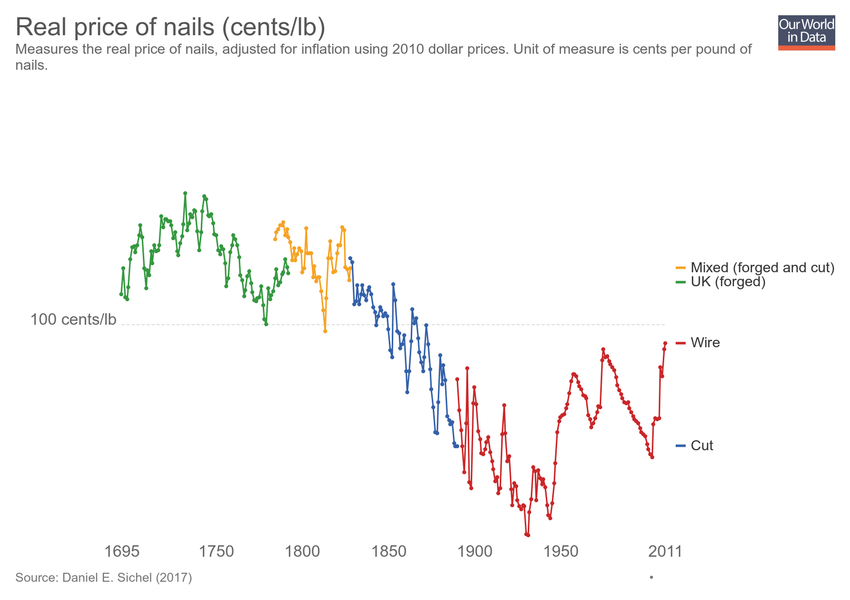
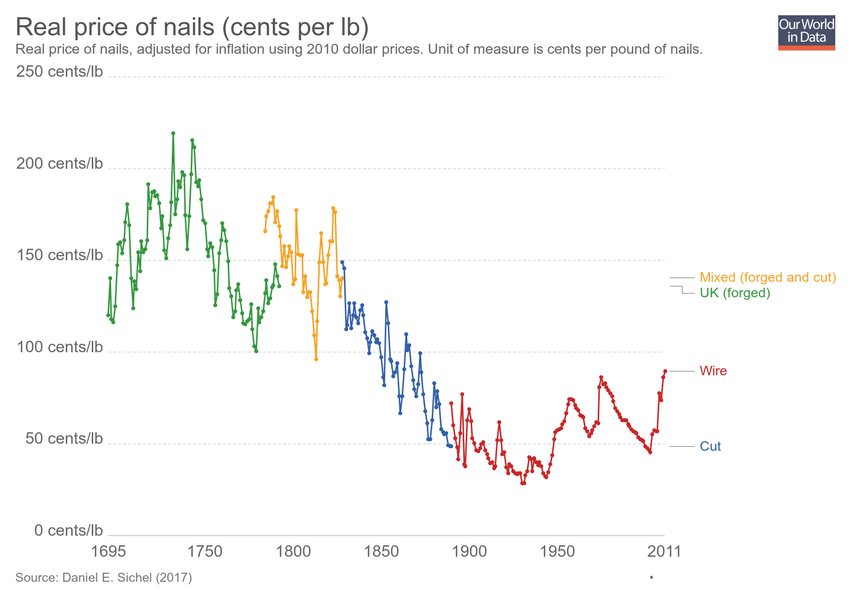
Updating chart real-price-of-nails-centslb

diff --git a/grapher/hiv-expenditure.html b/grapher/hiv-expenditure.html
@@ -1,4 +1,4 @@
-<!doctype html><html><head><meta name="viewport" content="width=device-width, initial-scale=1" /><title>HIV expenditure on prevention and treatment - Our World in Data</title><meta name="description" content="Total expenditure on HIV/AIDS prevention and treatment, measured in US$." /><link rel="canonical" href="https://ourworldindata.org/grapher/hiv-expenditure" /><meta property="fb:app_id" content="1149943818390250" /><meta property="og:url" content="https://ourworldindata.org/grapher/hiv-expenditure" /><meta property="og:title" content="HIV expenditure on prevention and treatment" /><meta property="og:description" content="Total expenditure on HIV/AIDS prevention and treatment, measured in US$." /><meta property="og:image" content="https://ourworldindata.org/grapher/exports/hiv-expenditure.png?v=1" /><meta property="og:image:width" content="850" /><meta property="og:image:height" content="600" /><meta property="og:site_name" content="Our World in Data" /><meta name="twitter:card" content="summary_large_image" /><meta name="twitter:site" content="@OurWorldInData" /><meta name="twitter:creator" content="@OurWorldInData" /><meta name="twitter:title" content="HIV expenditure on prevention and treatment" /><meta name="twitter:description" content="Total expenditure on HIV/AIDS prevention and treatment, measured in US$." /><meta name="twitter:image" content="https://ourworldindata.org/grapher/exports/hiv-expenditure.png?v=1" /><style>
+<!doctype html><html><head><meta name="viewport" content="width=device-width, initial-scale=1" /><title>HIV expenditure - Our World in Data</title><meta name="description" content="Country-reported HIV expenditure, measured in current US$ per year. The year of reported expenditure varies by country; this information can be found by hovering over a given country." /><link rel="canonical" href="https://ourworldindata.org/grapher/hiv-expenditure" /><meta property="fb:app_id" content="1149943818390250" /><meta property="og:url" content="https://ourworldindata.org/grapher/hiv-expenditure" /><meta property="og:title" content="HIV expenditure" /><meta property="og:description" content="Country-reported HIV expenditure, measured in current US$ per year. The year of reported expenditure varies by country; this information can be found by hovering over a given country." /><meta property="og:image" content="https://ourworldindata.org/grapher/exports/hiv-expenditure.png?v=1" /><meta property="og:image:width" content="850" /><meta property="og:image:height" content="600" /><meta property="og:site_name" content="Our World in Data" /><meta name="twitter:card" content="summary_large_image" /><meta name="twitter:site" content="@OurWorldInData" /><meta name="twitter:creator" content="@OurWorldInData" /><meta name="twitter:title" content="HIV expenditure" /><meta name="twitter:description" content="Country-reported HIV expenditure, measured in current US$ per year. The year of reported expenditure varies by country; this information can be found by hovering over a given country." /><meta name="twitter:image" content="https://ourworldindata.org/grapher/exports/hiv-expenditure.png?v=1" /><style>
         html, body {
             height: 100%;
             margin: 0;
@@ -20,19 +20,8 @@
         }
     </style><noscript><style>
                     figure { display: none !important; }
-                </style></noscript><link rel="stylesheet" href="https://ourworldindata.org/grapher/assets/commons.bundle.ac09ff8f098f0c7be836.css" /><link rel="preload" href="/grapher/data/variables/96328.json?v=1" as="fetch" crossorigin /></head><body class="singleChart"><figure data-grapher-src="/grapher/hiv-expenditure"></figure><noscript id="fallback"><img src="/grapher/exports/hiv-expenditure.svg" /><p>Interactive visualization requires JavaScript</p></noscript><script src="https://cdn.polyfill.io/v2/polyfill.min.js?features=es6,fetch"></script><script src="https://ourworldindata.org/grapher/assets/commons.bundle.ac09ff8f098f0c7be836.js"></script><script src="https://ourworldindata.org/grapher/assets/charts.bundle.dcf65b68eddaba4c6a58.js"></script><script>
-        var jsonConfig = {"map":{"projection":"World","targetYear":2015,"variableId":96328,"timeTolerance":3,"baseColorScheme":"YlGnBu","isManualBuckets":true,"colorSchemeLabels":[],"colorSchemeValues":[50000000,100000000,150000000,200000000,250000000,300000000,350000000,400000000],"defaultProjection":"World","colorSchemeMinValue":0,"customNumericColors":[null,null],"customCategoryColors":{},"customCategoryLabels":{},"customHiddenCategories":{}},"tab":"map","slug":"hiv-expenditure","type":"LineChart","title":"HIV expenditure on prevention and treatment","xAxis":{"scaleType":"linear"},"yAxis":{"min":0,"scaleType":"linear"},"version":1,"subtitle":"Total expenditure on HIV/AIDS prevention and treatment, measured in US$.","hasMapTab":true,"stackMode":"absolute","dimensions":[{"display":{"shortUnit":"$"},"property":"y","variableId":96328}],"hasChartTab":true,"isPublished":true,"selectedData":[{"index":0,"entityId":123},{"index":0,"entityId":237},{"index":0,"entityId":95}],"addCountryMode":"add-country","id":2488};
-        var figure = document.getElementsByTagName("figure")[0];
-        try {
-            window.App = {};
-            window.Global = { rootUrl: 'https://ourworldindata.org/grapher' };
-            ChartView.bootstrap({ jsonConfig: jsonConfig, containerNode: figure })
-        } catch (err) {
-            figure.innerHTML = "<img src=\"/grapher/exports/hiv-expenditure.svg\"/><p>Unable to load interactive visualization</p>";
-            figure.setAttribute("id", "fallback");
-            throw err;
-        }
-    </script></body></html>d":219},{"index":0,"entityId":23},{"index":0,"entityId":25},{"index":0,"entityId":26},{"index":0,"entityId":28},{"index":0,"entityId":29},{"index":0,"entityId":30},{"index":0,"entityId":4},{"index":0,"entityId":31},{"index":0,"entityId":32},{"index":0,"entityId":34},{"index":0,"entityId":35},{"index":0,"entityId":36},{"index":0,"entityId":37},{"index":0,"entityId":39},{"index":0,"entityId":40},{"index":0,"entityId":41},{"index":0,"entityId":18581},{"index":0,"entityId":42},{"index":0,"entityId":43},{"index":0,"entityId":174},{"index":0,"entityId":173},{"index":0,"entityId":172},{"index":0,"entityId":171},{"index":0,"entityId":170},{"index":0,"entityId":169},{"index":0,"entityId":168},{"index":0,"entityId":166},{"index":0,"entityId":143}],"addCountryMode":"add-country","hideTitleAnnotation":true,"id":2293};
+                </style></noscript><link rel="stylesheet" href="https://ourworldindata.org/grapher/assets/commons.bundle.ac09ff8f098f0c7be836.css" /><link rel="preload" href="/grapher/data/variables/85855.json?v=1" as="fetch" crossorigin /></head><body class="singleChart"><figure data-grapher-src="/grapher/hiv-expenditure"></figure><noscript id="fallback"><img src="/grapher/exports/hiv-expenditure.svg" /><p>Interactive visualization requires JavaScript</p></noscript><script src="https://cdn.polyfill.io/v2/polyfill.min.js?features=es6,fetch"></script><script src="https://ourworldindata.org/grapher/assets/commons.bundle.ac09ff8f098f0c7be836.js"></script><script src="https://ourworldindata.org/grapher/assets/charts.bundle.dcf65b68eddaba4c6a58.js"></script><script>
+        var jsonConfig = {"map":{"projection":"World","targetYear":2016,"variableId":85855,"equalSizeBins":true,"timeTolerance":5,"baseColorScheme":"Purples","isManualBuckets":true,"colorSchemeLabels":[],"colorSchemeValues":[50000000,100000000,200000000,300000000,400000000,500000000,750000000,1000000000],"defaultProjection":"World","colorSchemeMinValue":0,"customNumericColors":[null,null],"customCategoryColors":{},"customCategoryLabels":{},"customHiddenCategories":{}},"tab":"map","slug":"hiv-expenditure","type":"LineChart","title":"HIV expenditure","xAxis":{"scaleType":"linear"},"yAxis":{"min":0,"scaleType":"linear"},"version":1,"subtitle":"Country-reported HIV expenditure, measured in current US$ per year. The year of reported expenditure varies by country; this information can be found by hovering over a given country.","hasMapTab":true,"stackMode":"absolute","dimensions":[{"display":{},"property":"y","variableId":85855}],"isAutoSlug":true,"sourceDesc":"UNAIDS","hasChartTab":false,"isPublished":true,"selectedData":[{"index":0,"entityId":84},{"index":0,"entityId":233},{"index":0,"entityId":229},{"index":0,"entityId":15},{"index":0,"entityId":16},{"index":0,"entityId":17},{"index":0,"entityId":19},{"index":0,"entityId":20},{"index":0,"entityId":21},{"index":0,"entityId":22},{"index":0,"entityId":219},{"index":0,"entityId":23},{"index":0,"entityId":25},{"index":0,"entityId":26},{"index":0,"entityId":28},{"index":0,"entityId":29},{"index":0,"entityId":30},{"index":0,"entityId":4},{"index":0,"entityId":31},{"index":0,"entityId":32},{"index":0,"entityId":34},{"index":0,"entityId":35},{"index":0,"entityId":36},{"index":0,"entityId":37},{"index":0,"entityId":39},{"index":0,"entityId":40},{"index":0,"entityId":41},{"index":0,"entityId":18581},{"index":0,"entityId":42},{"index":0,"entityId":43},{"index":0,"entityId":174},{"index":0,"entityId":173},{"index":0,"entityId":172},{"index":0,"entityId":171},{"index":0,"entityId":170},{"index":0,"entityId":169},{"index":0,"entityId":168},{"index":0,"entityId":166},{"index":0,"entityId":143}],"addCountryMode":"add-country","hideTitleAnnotation":true,"id":2293};
         var figure = document.getElementsByTagName("figure")[0];
         try {
             window.App = {};

diff --git a/grapher/real-price-of-nails-centslb.html b/grapher/real-price-of-nails-centslb.html
@@ -1,4 +1,4 @@
-<!doctype html><html><head><meta name="viewport" content="width=device-width, initial-scale=1" /><title>Real price of nails (cents/lb) - Our World in Data</title><meta name="description" content="Measures the real price of nails, adjusted for inflation using 2010 dollar prices. Unit of measure is cents per pound of nails." /><link rel="canonical" href="https://ourworldindata.org/grapher/real-price-of-nails-centslb" /><meta property="fb:app_id" content="1149943818390250" /><meta property="og:url" content="https://ourworldindata.org/grapher/real-price-of-nails-centslb" /><meta property="og:title" content="Real price of nails (cents/lb)" /><meta property="og:description" content="Measures the real price of nails, adjusted for inflation using 2010 dollar prices. Unit of measure is cents per pound of nails." /><meta property="og:image" content="https://ourworldindata.org/grapher/exports/real-price-of-nails-centslb.png?v=6" /><meta property="og:image:width" content="850" /><meta property="og:image:height" content="600" /><meta property="og:site_name" content="Our World in Data" /><meta name="twitter:card" content="summary_large_image" /><meta name="twitter:site" content="@OurWorldInData" /><meta name="twitter:creator" content="@OurWorldInData" /><meta name="twitter:title" content="Real price of nails (cents/lb)" /><meta name="twitter:description" content="Measures the real price of nails, adjusted for inflation using 2010 dollar prices. Unit of measure is cents per pound of nails." /><meta name="twitter:image" content="https://ourworldindata.org/grapher/exports/real-price-of-nails-centslb.png?v=6" /><style>
+<!doctype html><html><head><meta name="viewport" content="width=device-width, initial-scale=1" /><title>Real price of nails (cents per lb) - Our World in Data</title><meta name="description" content="Real price of nails, adjusted for inflation using 2010 dollar prices. Unit of measure is cents per pound of nails." /><link rel="canonical" href="https://ourworldindata.org/grapher/real-price-of-nails-centslb" /><meta property="fb:app_id" content="1149943818390250" /><meta property="og:url" content="https://ourworldindata.org/grapher/real-price-of-nails-centslb" /><meta property="og:title" content="Real price of nails (cents per lb)" /><meta property="og:description" content="Real price of nails, adjusted for inflation using 2010 dollar prices. Unit of measure is cents per pound of nails." /><meta property="og:image" content="https://ourworldindata.org/grapher/exports/real-price-of-nails-centslb.png?v=7" /><meta property="og:image:width" content="850" /><meta property="og:image:height" content="600" /><meta property="og:site_name" content="Our World in Data" /><meta name="twitter:card" content="summary_large_image" /><meta name="twitter:site" content="@OurWorldInData" /><meta name="twitter:creator" content="@OurWorldInData" /><meta name="twitter:title" content="Real price of nails (cents per lb)" /><meta name="twitter:description" content="Real price of nails, adjusted for inflation using 2010 dollar prices. Unit of measure is cents per pound of nails." /><meta name="twitter:image" content="https://ourworldindata.org/grapher/exports/real-price-of-nails-centslb.png?v=7" /><style>
         html, body {
             height: 100%;
             margin: 0;
@@ -20,8 +20,8 @@
         }
     </style><noscript><style>
                     figure { display: none !important; }
-                </style></noscript><link rel="stylesheet" href="https://ourworldindata.org/grapher/assets/commons.bundle.ac09ff8f098f0c7be836.css" /><link rel="preload" href="/grapher/data/variables/85642+85643+85644+85645.json?v=6" as="fetch" crossorigin /></head><body class="singleChart"><figure data-grapher-src="/grapher/real-price-of-nails-centslb"></figure><noscript id="fallback"><img src="/grapher/exports/real-price-of-nails-centslb.svg" /><p>Interactive visualization requires JavaScript</p></noscript><script src="https://cdn.polyfill.io/v2/polyfill.min.js?features=es6,fetch"></script><script src="https://ourworldindata.org/grapher/assets/commons.bundle.ac09ff8f098f0c7be836.js"></script><script src="https://ourworldindata.org/grapher/assets/charts.bundle.dcf65b68eddaba4c6a58.js"></script><script>
-        var jsonConfig = {"id":2231,"map":{"projection":"World","colorSchemeLabels":[],"colorSchemeValues":[],"defaultProjection":"World","colorSchemeMinValue":0,"customNumericColors":[],"customCategoryColors":{},"customCategoryLabels":{},"customHiddenCategories":{}},"tab":"chart","slug":"real-price-of-nails-centslb","type":"LineChart","title":"Real price of nails (cents/lb)","xAxis":{"scaleType":"linear"},"yAxis":{"max":400,"min":0,"scaleType":"log","canChangeScaleType":true},"version":6,"subtitle":"Measures the real price of nails, adjusted for inflation using 2010 dollar prices. Unit of measure is cents per pound of nails.","hasMapTab":false,"stackMode":"absolute","dimensions":[{"display":{"name":"UK (forged)","shortUnit":"cents/lb"},"property":"y","variableId":85642},{"display":{"name":"Mixed (forged and cut)"},"property":"y","variableId":85643},{"display":{"name":"Cut"},"property":"y","variableId":85644},{"display":{"name":"Wire"},"property":"y","variableId":85645}],"hasChartTab":true,"isPublished":true,"selectedData":[{"index":0,"entityId":355},{"index":1,"entityId":355},{"index":2,"entityId":355},{"index":3,"entityId":355}],"addCountryMode":"change-country","hideTitleAnnotation":true};
+                </style></noscript><link rel="stylesheet" href="https://ourworldindata.org/grapher/assets/commons.bundle.ac09ff8f098f0c7be836.css" /><link rel="preload" href="/grapher/data/variables/85642+85643+85644+85645.json?v=7" as="fetch" crossorigin /></head><body class="singleChart"><figure data-grapher-src="/grapher/real-price-of-nails-centslb"></figure><noscript id="fallback"><img src="/grapher/exports/real-price-of-nails-centslb.svg" /><p>Interactive visualization requires JavaScript</p></noscript><script src="https://cdn.polyfill.io/v2/polyfill.min.js?features=es6,fetch"></script><script src="https://ourworldindata.org/grapher/assets/commons.bundle.ac09ff8f098f0c7be836.js"></script><script src="https://ourworldindata.org/grapher/assets/charts.bundle.dcf65b68eddaba4c6a58.js"></script><script>
+        var jsonConfig = {"id":2231,"map":{"projection":"World","colorSchemeLabels":[],"colorSchemeValues":[],"colorSchemeMinValue":0,"customNumericColors":[],"customCategoryColors":{},"customCategoryLabels":{},"customHiddenCategories":{}},"tab":"chart","slug":"real-price-of-nails-centslb","type":"LineChart","title":"Real price of nails (cents per lb)","xAxis":{"scaleType":"linear"},"yAxis":{"max":250,"min":0,"scaleType":"linear"},"version":7,"subtitle":"Real price of nails, adjusted for inflation using 2010 dollar prices. Unit of measure is cents per pound of nails.","hasMapTab":false,"stackMode":"absolute","dimensions":[{"display":{"name":"UK (forged)","shortUnit":"cents/lb"},"property":"y","variableId":85642},{"display":{"name":"Mixed (forged and cut)"},"property":"y","variableId":85643},{"display":{"name":"Cut"},"property":"y","variableId":85644},{"display":{"name":"Wire"},"property":"y","variableId":85645}],"hasChartTab":true,"isPublished":true,"selectedData":[{"index":0,"entityId":355},{"index":1,"entityId":355},{"index":2,"entityId":355},{"index":3,"entityId":355}],"addCountryMode":"change-country","hideTitleAnnotation":true};
         var figure = document.getElementsByTagName("figure")[0];
         try {
             window.App = {};

diff --git a/grapher/real-price-of-nails-cents.html b/grapher/real-price-of-nails-cents.html
@@ -1,0 +1,35 @@
+<!doctype html><html><head><meta name="viewport" content="width=device-width, initial-scale=1" /><title>Real price of nails (cents per nail) - Our World in Data</title><meta name="description" content="Real price of nails, adjusted for inflation using 2010 dollar prices. Unit of measure is cents per nail." /><link rel="canonical" href="https://ourworldindata.org/grapher/real-price-of-nails-cents" /><meta property="fb:app_id" content="1149943818390250" /><meta property="og:url" content="https://ourworldindata.org/grapher/real-price-of-nails-cents" /><meta property="og:title" content="Real price of nails (cents per nail)" /><meta property="og:description" content="Real price of nails, adjusted for inflation using 2010 dollar prices. Unit of measure is cents per nail." /><meta property="og:image" content="https://ourworldindata.org/grapher/exports/real-price-of-nails-cents.png?v=5" /><meta property="og:image:width" content="850" /><meta property="og:image:height" content="600" /><meta property="og:site_name" content="Our World in Data" /><meta name="twitter:card" content="summary_large_image" /><meta name="twitter:site" content="@OurWorldInData" /><meta name="twitter:creator" content="@OurWorldInData" /><meta name="twitter:title" content="Real price of nails (cents per nail)" /><meta name="twitter:description" content="Real price of nails, adjusted for inflation using 2010 dollar prices. Unit of measure is cents per nail." /><meta name="twitter:image" content="https://ourworldindata.org/grapher/exports/real-price-of-nails-cents.png?v=5" /><style>
+        html, body {
+            height: 100%;
+            margin: 0;
+        }
+
+        figure[data-grapher-src], #fallback {
+            display: flex;
+            align-items: center;
+            justify-content: center;
+            flex-direction: column;
+            margin: 0;
+            width: 100%;
+            height: 100%;
+        }
+
+        #fallback > img {
+            max-width: 100%;
+            border: 1px solid #ccc;
+        }
+    </style><noscript><style>
+                    figure { display: none !important; }
+                </style></noscript><link rel="stylesheet" href="https://ourworldindata.org/grapher/assets/commons.bundle.ac09ff8f098f0c7be836.css" /><link rel="preload" href="/grapher/data/variables/85647+85648+85649+85650.json?v=5" as="fetch" crossorigin /></head><body class="singleChart"><figure data-grapher-src="/grapher/real-price-of-nails-cents"></figure><noscript id="fallback"><img src="/grapher/exports/real-price-of-nails-cents.svg" /><p>Interactive visualization requires JavaScript</p></noscript><script src="https://cdn.polyfill.io/v2/polyfill.min.js?features=es6,fetch"></script><script src="https://ourworldindata.org/grapher/assets/commons.bundle.ac09ff8f098f0c7be836.js"></script><script src="https://ourworldindata.org/grapher/assets/charts.bundle.dcf65b68eddaba4c6a58.js"></script><script>
+        var jsonConfig = {"id":2232,"map":{"projection":"World","colorSchemeLabels":[],"colorSchemeValues":[],"colorSchemeMinValue":0,"customNumericColors":[],"customCategoryColors":{},"customCategoryLabels":{},"customHiddenCategories":{}},"tab":"chart","slug":"real-price-of-nails-cents","type":"LineChart","title":"Real price of nails (cents per nail)","xAxis":{"scaleType":"linear"},"yAxis":{"max":3,"min":0,"scaleType":"linear"},"version":5,"subtitle":"Real price of nails, adjusted for inflation using 2010 dollar prices. Unit of measure is cents per nail.","hasMapTab":false,"stackMode":"absolute","dimensions":[{"display":{"name":"UK (forged)","shortUnit":"cents/nail"},"property":"y","variableId":85647},{"display":{"name":"Mixed (forged and cut)"},"property":"y","variableId":85648},{"display":{"name":"Cut"},"property":"y","variableId":85649},{"display":{"name":"Wire"},"property":"y","variableId":85650}],"hasChartTab":true,"isPublished":true,"selectedData":[{"index":0,"entityId":355},{"index":1,"entityId":355},{"index":2,"entityId":355},{"index":3,"entityId":355}],"addCountryMode":"change-country","hideTitleAnnotation":true};
+        var figure = document.getElementsByTagName("figure")[0];
+        try {
+            window.App = {};
+            window.Global = { rootUrl: 'https://ourworldindata.org/grapher' };
+            ChartView.bootstrap({ jsonConfig: jsonConfig, containerNode: figure })
+        } catch (err) {
+            figure.innerHTML = "<img src=\"/grapher/exports/real-price-of-nails-cents.svg\"/><p>Unable to load interactive visualization</p>";
+            figure.setAttribute("id", "fallback");
+            throw err;
+        }
+    </script></body></html>
